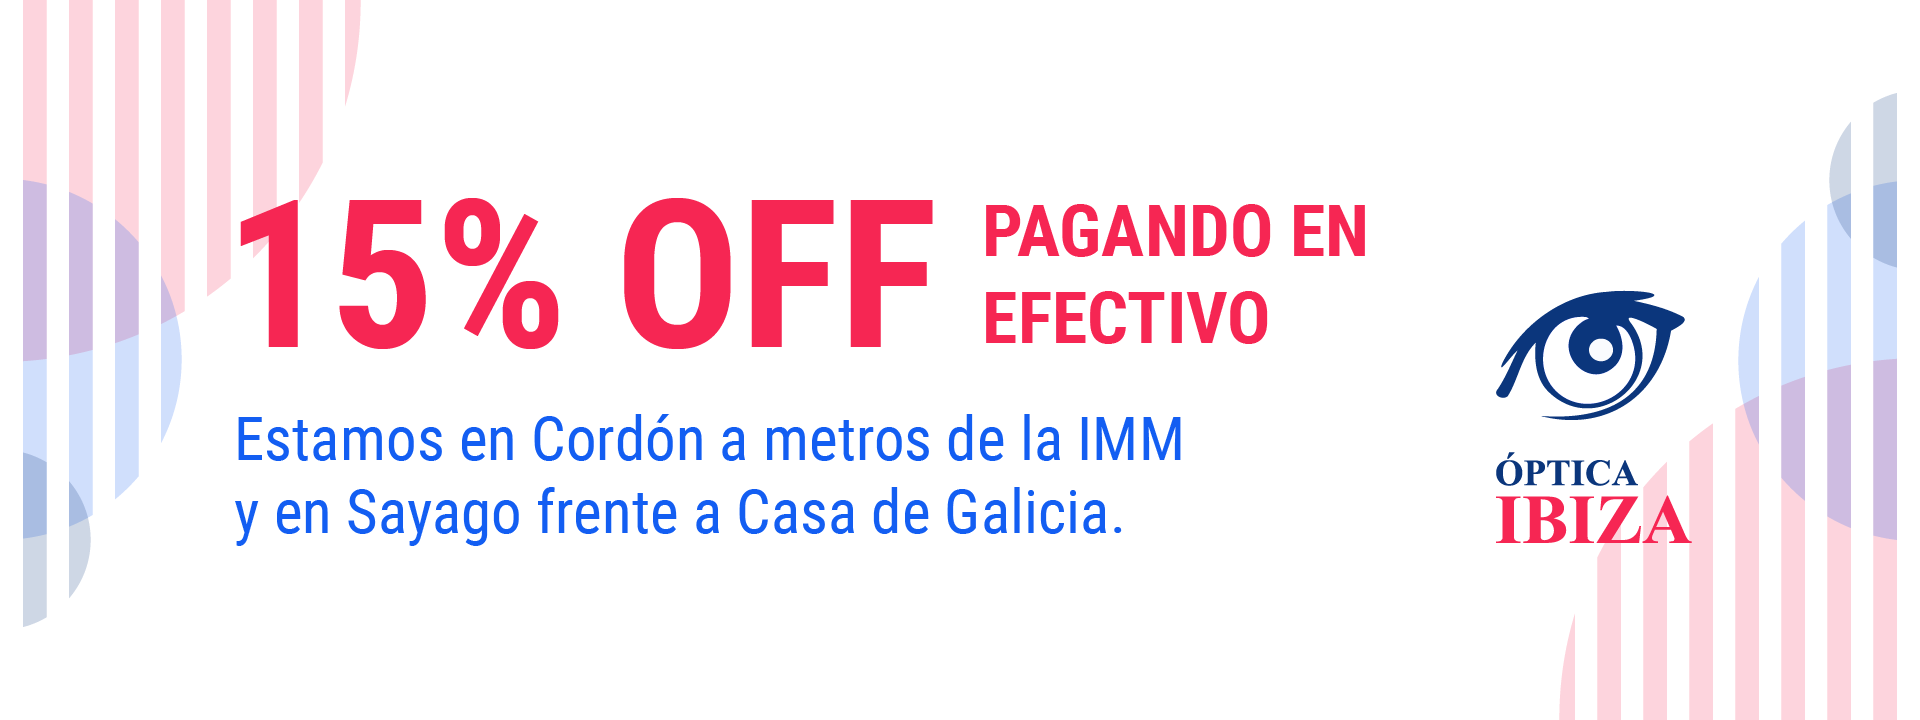
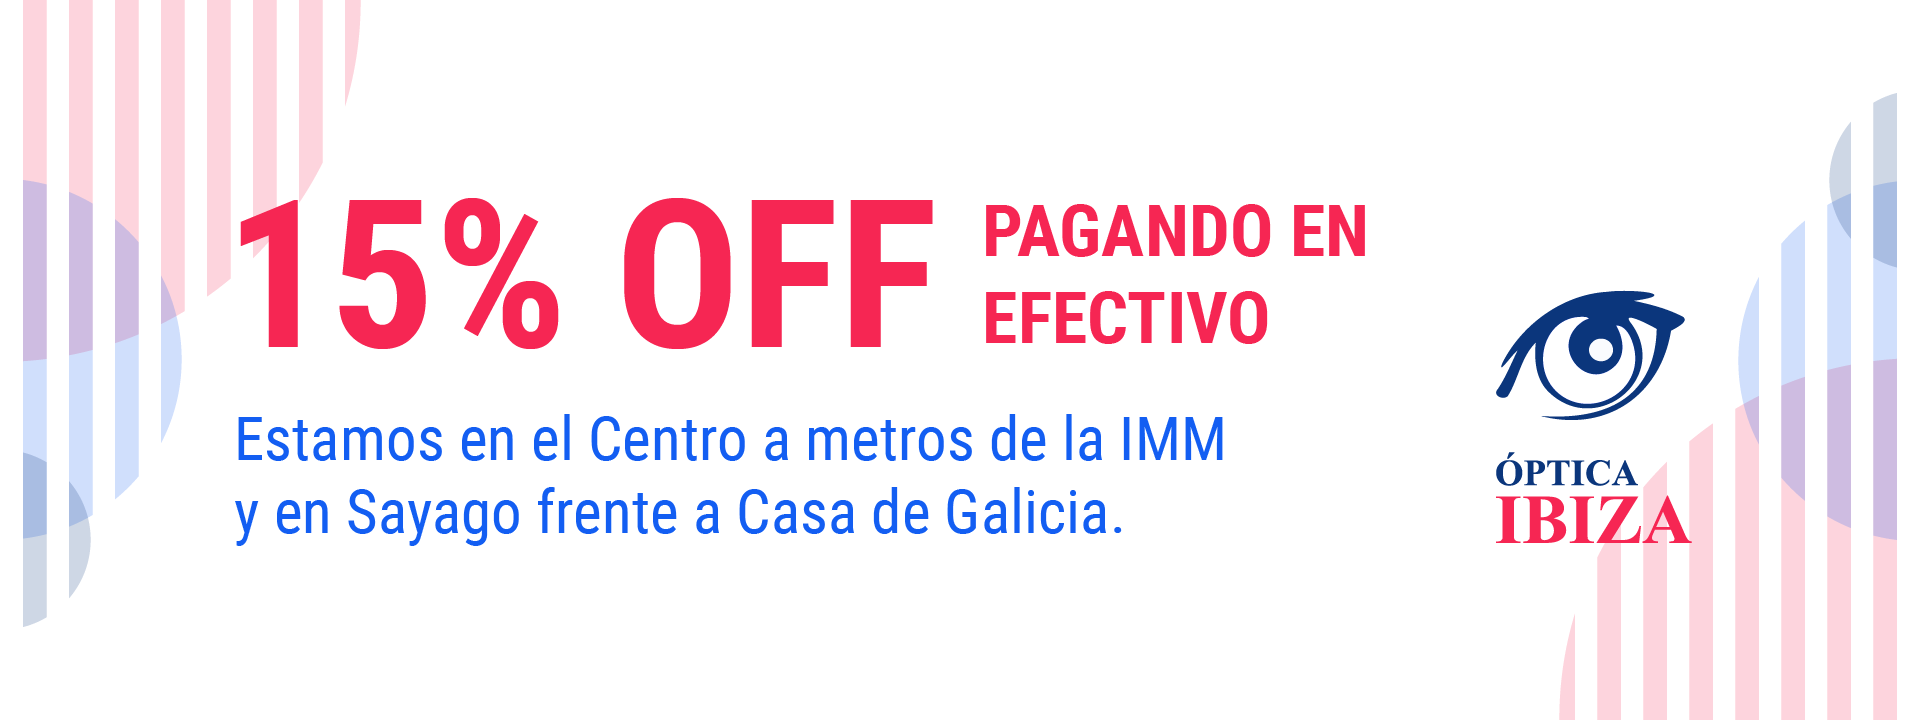
adding links and img without prices

Changed region(s): [[0.2812, 0.5806, 0.6562, 0.6417]]

diff --git a/index.html b/index.html
@@ -83,7 +83,7 @@
 
         <!-- First slide -->
         <div class="carousel-item active">
-          <img src="./img/sq_banner2.png" width="100%" height="100%" xmlns="http://www.w3.org/2000/svg"
+          <img src="./img/banner.png" width="100%" height="100%" xmlns="http://www.w3.org/2000/svg"
             aria-hidden="true" preserveAspectRatio="xMidYMid slice" focusable="false">
           <!-- Regular size button -->
           <div class="container d-none d-sm-inline-flex">
@@ -105,12 +105,12 @@
         <!-- Regular size button -->
         <div class="container d-none d-sm-inline-flex">
           <div class="carousel-caption">
-            <p><a class="btn btn-lg btn-primary" role="button" href="#meli">Comprar</a></p>
+            <p><a class="btn btn-lg btn-primary" role="button" href="https://bit.ly/3Qcm7lg" target="_blank">Comprar</a></p>
           </div>
         </div>
         <!-- Small size button -->
         <div class="carousel-indicators d-sm-none d-inline-flex">
-          <p><a class="btn btn-lg btn-primary" role="button" href="#meli">Comprar</a></p>
+          <p><a class="btn btn-lg btn-primary" role="button" href="https://bit.ly/3Qcm7lg" target="_blank">Comprar</a></p>
         </div>
       </div>
 
@@ -122,12 +122,12 @@
         <!-- Regular size button -->
         <div class="container d-none d-sm-inline-flex">
           <div class="carousel-caption">
-            <p><a class="btn btn-lg btn-primary" role="button" href="#meli">Comprar</a></p>
+            <p><a class="btn btn-lg btn-primary" role="button" href="https://bit.ly/3mgDbc0" target="_blank">Comprar</a></p>
           </div>
         </div>
         <!-- Small size button -->
         <div class="carousel-indicators d-sm-none d-inline-flex">
-          <p><a class="btn btn-lg btn-primary" role="button" href="#meli">Comprar</a></p>
+          <p><a class="btn btn-lg btn-primary" role="button" href="https://bit.ly/3mgDbc0" target="_blank">Comprar</a></p>
         </div>
       </div>
 
@@ -139,12 +139,12 @@
         <!-- Regular size button -->
         <div class="container d-none d-sm-inline-flex">
           <div class="carousel-caption">
-            <p><a class="btn btn-lg btn-primary" role="button" href="#meli">Comprar</a></p>
+            <p><a class="btn btn-lg btn-primary" role="button" href="https://bit.ly/3Mk4UDl" target="_blank">Comprar</a></p>
           </div>
         </div>
         <!-- Small size button -->
         <div class="carousel-indicators d-sm-none d-inline-flex">
-          <p><a class="btn btn-lg btn-primary" role="button" href="#meli">Comprar</a></p>
+          <p><a class="btn btn-lg btn-primary" role="button" href="https://bit.ly/3Mk4UDl" target="_blank">Comprar</a></p>
         </div>
       </div>
     </div>
@@ -205,7 +205,7 @@
 
       <div class="row featurette">
         <div class="col-md-7">
-          <h2 class="featurette-heading">Nuestras sucursales:<span class="text-muted"> Cordón y Sayago</span></h2>
+          <h2 class="featurette-heading">Nuestras sucursales:<span class="text-muted"> Centro y Sayago</span></h2>
           <p class="lead">Agr. Germán Barbato 1395, frente a la Intendencia<br>Av. Millán 4471, frente al Sanatorio Casa de Galicia</p>
         </div>
         <div class="col-md-5">
@@ -220,14 +220,15 @@
 
       <div class="row featurette">
         <div class="col-md-7 order-md-2">
-          <h2 class="featurette-heading">Visitanos en <span class="text-muted">Mercadolibre</span></h2>
+          <h2 class="featurette-heading">Visitanos en <a href="https://bit.ly/3Qcm7lg" target="_blank"><span class="text-muted">Mercadolibre</span></a></h2>
           <p class="lead">Visitá nuestra tienda en MercadoLibre para encontrar las últimas promociones y nuevos
             productos, con envío incluido</p>
         </div>
         <div class="col-md-5 order-md-1">
-          <img src="./img/mercadolibre.png" width="100%" height="100%" xmlns="http://www.w3.org/2000/svg" role="img"
+          <a href="https://bit.ly/3Qcm7lg" target="_blank">
+            <img src="./img/mercadolibre.png" width="100%" height="100%" xmlns="http://www.w3.org/2000/svg" role="img"
             aria-label="Placeholder: 500x500" preserveAspectRatio="xMidYMid slice" focusable="false">
-
+          </a>
         </div>
       </div>
 
@@ -235,13 +236,14 @@
 
       <div class="row featurette">
         <div class="col-md-7">
-          <h2 class="featurette-heading">Tambien tenemos<span class="text-muted"> Whatsapp</span></h2>
+          <h2 class="featurette-heading">Tambien tenemos <a href="https://wa.me/message/DQXZDW6IM7YYF1" target="_blank"><span class="text-muted"> Whatsapp</span></a></h2>
           <p class="lead">Pódes contactarnos directamente por whatsapp por compras o consultas.</p>
         </div>
         <div class="col-md-5">
-          <img src="./img/wpp.png" width="100%" height="100%" xmlns="http://www.w3.org/2000/svg" role="img"
+          <a href="https://wa.me/message/DQXZDW6IM7YYF1" target="_blank">
+            <img src="./img/wpp.png" width="100%" height="100%" xmlns="http://www.w3.org/2000/svg" role="img"
             aria-label="Placeholder: 500x500" preserveAspectRatio="xMidYMid slice" focusable="false">
-
+          </a>
         </div>
       </div>
 
